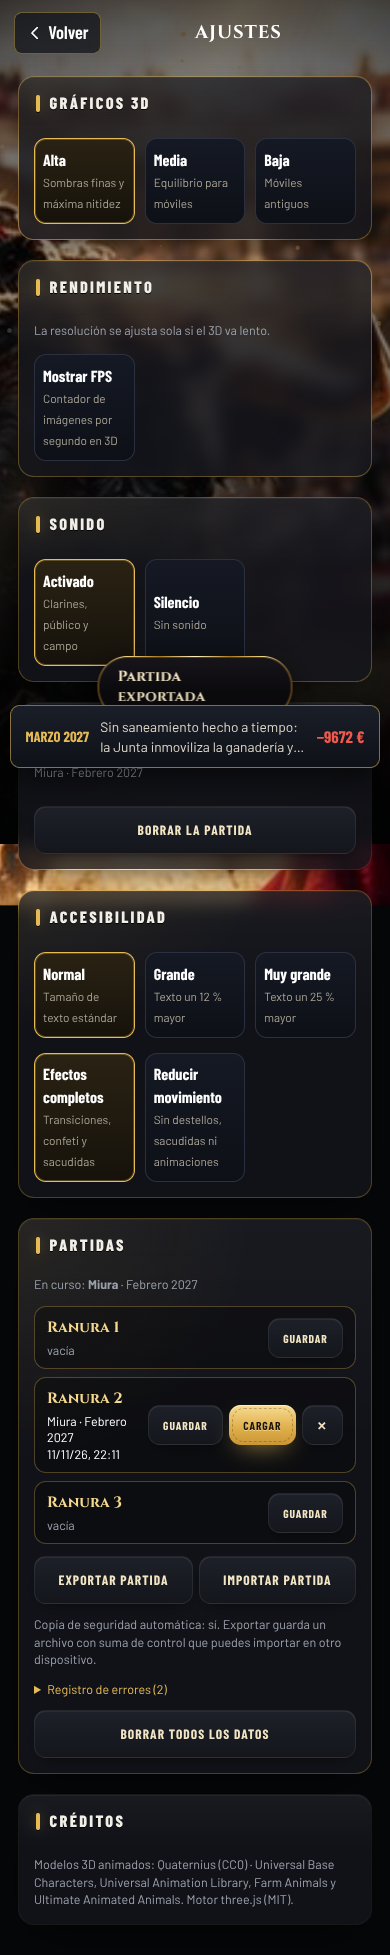
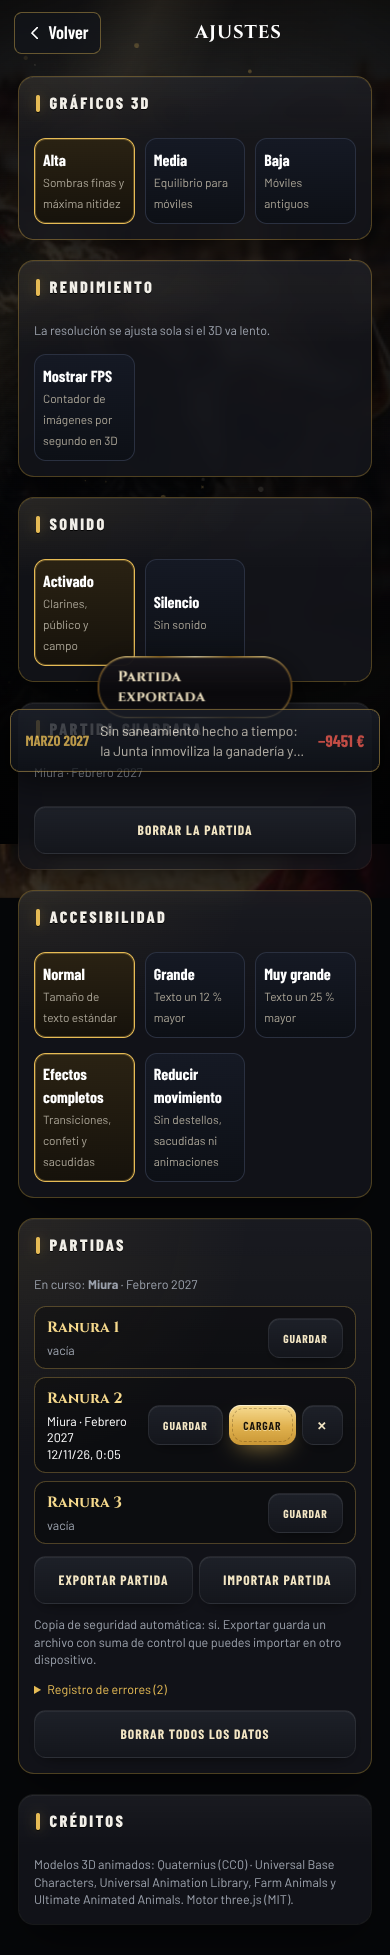
Cogidas animadas en la corrida en directo y test (#42)
Claude-Session: https://claude.ai/code/session_01UEz6UKm7eRVhhfCF1Qj26a

diff --git a/ruedo.html b/ruedo.html
@@ -984,7 +984,7 @@ function rigTick(b,dt){const A=RIG.A,Bn=RIG.bones,sp=bullSpeed;
  RIG.mixer.update(dt);
  if(!b.dead){
   // cara y cuello: humillar, derrote y seguir la tela
-  let pitch=b.pitch;if(D.phase==='pass'&&D.track){const p=clamp((D.s-D.s0)/(D.track.len-D.s0),0,1);pitch-=gauss(p,.82,.09)*(.08+.22*(CUR.b.derrote||0));}
+  let pitch=b.pitch;if(D.phase==='cogida')pitch=-.75*Math.sin(Math.PI*clamp(CG.t/.9,0,1))+.2;if(D.phase==='pass'&&D.track){const p=clamp((D.s-D.s0)/(D.track.len-D.s0),0,1);pitch-=gauss(p,.82,.09)*(.08+.22*(CUR.b.derrote||0));}
   if(D.phase==='suprema'&&/cuadrar|espera/.test(SP.st))pitch=Math.max(pitch,.25);
   const yawT=clamp(b.yawH,-.38,.38);b.sP=b.sP==null?pitch:damp(b.sP,pitch,3.2,dt);b.sY=b.sY==null?yawT:damp(b.sY,yawT,2.6,dt);pitch=b.sP;const yaw=b.sY;
   rotB(b,Bn.Neck1,AXX,pitch*.32);rotB(b,Bn.Neck2,AXX,pitch*.28);rotB(b,Bn.Neck3,AXX,pitch*.2);rotB(b,Bn.Head,AXX,pitch*.2);
@@ -1005,11 +1005,37 @@ updateBull=function(dt){_updateBullR(dt);if(bull&&bull.rig)rigTick(bull,dt);};
 /* física del ruedo: nadie atraviesa la barrera y el toro no se monta sobre el torero fuera del embroque */
 function limitesRuedo(){const rb=Math.hypot(B.x,B.z),mb=R-1.3;if(rb>mb){B.x*=mb/rb;B.z*=mb/rb;if(D.phase!=='pass')bullSpeed*=.6;}
  const rt=Math.hypot(T.x,T.z),mt=R-1;if(rt>mt){T.x*=mt/rt;T.z*=mt/rt;}
- if(D.phase!=='pass'&&D.phase!=='suprema'){const dx=B.x-T.x,dz=B.z-T.z,d=Math.hypot(dx,dz),m=1.6;if(d<m&&d>1e-4){B.x=T.x+dx/d*m;B.z=T.z+dz/d*m;}}}
+ if(D.phase!=='pass'&&D.phase!=='suprema'&&D.phase!=='cogida'){const dx=B.x-T.x,dz=B.z-T.z,d=Math.hypot(dx,dz),m=1.6;if(d<m&&d>1e-4){B.x=T.x+dx/d*m;B.z=T.z+dz/d*m;}}}
 /* rajarse: el toro sin casta se va a tablas al acabar la serie antes de volver a la muleta */
 const _updDirR=updateDirector;
 updateDirector=function(dt){_updDirR(dt);limitesRuedo();if(!bull||!CUR.b.raja||D.phase!=='turn'||D.after!=='serie'||D.t>2.6||D.si<1)return;
  const out=Math.atan2(B.x,B.z),d=angDiff(Byaw,out);Byaw+=clamp(d,-1.6*dt,1.6*dt);bullSpeed=damp(bullSpeed,1.5,3,dt);if(Math.hypot(B.x,B.z)<R-3){B.x+=Math.sin(Byaw)*bullSpeed*dt;B.z+=Math.cos(Byaw)*bullSpeed*dt;}};
+
+
+/* ---------- cogidas: el toro prende al torero, lo voltea y lo deja en el albero ----------
+   Ocurren solo cuando el juego ha decidido cogida para ese toro. Leve: se levanta y sigue la faena.
+   Grave (con sustituto): se lo llevan a la enfermería y el resultado dice quién mata al toro. */
+const CG={t:0,on:false,dir:new V3(),h:0,rx:0,rz:0,land:new V3()};
+function cogidaInicia(){D.phase='cogida';D.t=0;CG.on=true;CG.t=0;CG.h=0;CG.rx=0;CG.rz=0;CG.dir.set(Math.sin(Byaw),0,Math.cos(Byaw));CG.from=T.clone();CG.land=T.clone().addScaledVector(CG.dir,1.7);
+ CUR.cog.done=true;capote.mesh.visible=muleta.mesh.visible=stick.visible=sword.visible=false;D.embroque=false;D.spinA=0;
+ const o=document.getElementById('ole');o.textContent='¡Cogida!';o.style.color='#e0454c';o.classList.add('on');setTimeout(()=>{o.classList.remove('on');o.style.color='';},1800);
+ try{navigator.vibrate&&matchMedia('(pointer:coarse)').matches&&navigator.vibrate([70,40,140]);}catch(e){}emitDust(T,18,1.2);if(ui.cam==='cine')cut(pick(['raso','torero','callejon']));}
+function cogidaTick(dt){CG.t+=dt;const u=CG.t;
+ // el toro sigue su viaje, derrota y se va frenando
+ if(u<2.4)bullSpeed=damp(bullSpeed,u<1.4?3.2:1.2,2,dt);B.x+=Math.sin(Byaw)*bullSpeed*dt;B.z+=Math.cos(Byaw)*bullSpeed*dt;if(u<2.4)Byaw+=(u>1.2?.5:0)*dt;else{const away=Math.atan2(B.x-T.x,B.z-T.z);let dy=away-Byaw;dy=Math.atan2(Math.sin(dy),Math.cos(dy));Byaw+=dy*Math.min(1,2.5*dt);bullSpeed=damp(bullSpeed,Math.hypot(B.x-T.x,B.z-T.z)<6?2.4:0,2,dt);}
+ // el torero: prendido, volteado en el aire y al suelo
+ if(u<.32){const k=u/.32;T.lerpVectors(CG.from,CG.from.clone().addScaledVector(CG.dir,.45),k);CG.h=.55*k;CG.rx=-.6*k;}
+ else if(u<1.25){const k=(u-.32)/.93;const a=CG.from.clone().addScaledVector(CG.dir,.45);T.lerpVectors(a,CG.land,k);CG.h=.55*(1-k)+2.1*Math.sin(Math.PI*k);CG.rx=-.6-(Math.PI*2-.6+Math.PI/2)*smooth(0,1,k);CG.rz=.5*Math.sin(Math.PI*k);if(k>.97&&!CG.polvo){CG.polvo=1;emitDust(T,24,1.4);}}
+ else{CG.h=.12;CG.rx=-Math.PI/2;CG.rz=0;}
+ torero.walkV=0;const grave=CUR.cog&&CUR.cog.grave;
+ if(!grave&&u>3.2){const k=smooth(3.2,4.6,u);CG.rx=-Math.PI/2*(1-k);CG.h=.12*(1-k);
+  if(u>4.6){CG.on=false;CG.polvo=0;D.phase='turn';D.t=0;D.after='serie';D.si++;D.passN=99;setTool(D.tool,D.hand);}}
+ if(grave&&u>3.6&&!CG.fin){CG.fin=1;const o=document.getElementById('ole');o.textContent='A la enfermería';o.style.color='#e0454c';o.classList.add('on');setTimeout(()=>{o.classList.remove('on');o.style.color='';},2000);setTimeout(()=>{CG.on=false;CG.fin=0;CG.polvo=0;D.phase='fin';finFaena();},2200);}}
+const _updDirC=updateDirector;
+updateDirector=function(dt){if(D.phase==='cogida'){D.t+=dt;cogidaTick(dt);limitesRuedo();return;}_updDirC(dt);
+ if(D.phase==='pass'&&CUR.cog&&!CUR.cog.done&&D.si>=CUR.cog.si&&D.passN>=CUR.cog.pn&&D.track){const p=clamp((D.s-D.s0)/(D.track.len-D.s0),0,1);if(p>.4&&p<.55)cogidaInicia();}};
+const _updTorC=updateTorero;
+updateTorero=function(dt){_updTorC(dt);if(D.phase==='cogida'||CG.on){const r=torero.root;r.position.y+=CG.h;r.rotation.x=CG.rx;r.rotation.z=CG.rz;}else{torero.root.rotation.x=0;torero.root.rotation.z=0;}};
 
 /* ---------- puente con Hierro y Divisa ----------
    El juego envía cada toro de la corrida ya lidiado en su simulación (bravura, nobleza, casta, fuerza, encaste,
@@ -1034,7 +1060,7 @@ function aplicaJuego(r){const d=JUEGO.t,cl=(x,a,b)=>Math.max(a,Math.min(b,x));co
  const P=[];const nc=d.res==='devuelto'?1:B>72?2:1;for(let i=0;i<nc;i++)P.push([i===0?pk(CAP):pk(CAP),cl(Math.round(2+(B-60)/10+r()),2,5),B>62?REMC:null]);
  let nm=d.res==='devuelto'?0:d.rajado||d.fell?1:N>80?4:N>68?3:2;if(d.pases)nm=Math.min(nm,Math.max(1,Math.ceil(d.pases/2)));
  let last=est==='artista'||r()<.35?'natural':'derechazo';for(let i=0;i<nm;i++){let n=i===0?last:(last==='derechazo'?'natural':'derechazo');if(i===nm-1&&nm>2&&(est==='tremendista'||est==='valiente')&&r()<.5)n='manoletina';last=n;P.push([n,cl(Math.round(2+(N-55)/9+r()*1.4),2,6),N>58?pk(REMM):null]);}
- CUR.b.escarba=B<62||C<55||r()<.12;CUR.b.derrote=cl((C-55)/40,0,1);CUR.b.raja=!!d.rajado;CUR.prog=P;JUEGO.oleK=d.res==='pitos'?.35:d.res==='silencio'?.6:d.res==='ovacion'?.85:1;
+ CUR.cog=d.cogida&&d.res!=='devuelto'?{si:Math.max(0,Math.min(P.length-1,1+Math.floor(r()*Math.max(1,P.length-1)))),pn:1+Math.floor(r()*2),grave:!!d.sust,parte:d.cogida.parte||'',done:false}:null;CUR.b.escarba=B<62||C<55||r()<.12;CUR.b.derrote=cl((C-55)/40,0,1);CUR.b.raja=!!d.rajado;CUR.prog=P;JUEGO.oleK=d.res==='pitos'?.35:d.res==='silencio'?.6:d.res==='ovacion'?.85:1;
  variaPlaza(d);hudCartel();}
 function hudCartel(){const d=JUEGO.t;if(!d)return;const $=id=>document.getElementById(id);
  $('cEy').textContent=`${d.plaza||''}${d.feria?' · '+d.feria:''} · ${d.i}º de la tarde`;
@@ -1093,7 +1119,7 @@ function frame(now){requestAnimationFrame(frame);try{if(last)autoCalidad(Math.mi
  renderer.render(scene,camera);
 
  if(false){const d=gimg.data;for(let i=0;i<d.length;i+=4){const v=Math.random()*255;d[i]=d[i+1]=d[i+2]=v;d[i+3]=255;}gctx.putImageData(gimg,0,0);}}
-window.__ruedo={D,ui,setCam,fin:()=>finFaena(),sup:()=>suprema(),SP,get t(){return simTime;},get bull(){return bull;},pan:()=>{PAN.t=30;},get info(){const i=renderer.info.render;return {tri:i.triangles,calls:i.calls,crowd:crowd.bodies.count,pr:renderer.getPixelRatio(),sh:sun.shadow.mapSize.x};}};
+window.__ruedo={D,ui,setCam,fin:()=>finFaena(),cog:(g)=>{CUR.cog={si:D.si,pn:0,grave:!!g,done:false};},CG,get dist(){return Math.hypot(B.x-T.x,B.z-T.z);},sup:()=>suprema(),SP,get t(){return simTime;},get bull(){return bull;},pan:()=>{PAN.t=30;},get info(){const i=renderer.info.render;return {tri:i.triangles,calls:i.calls,crowd:crowd.bodies.count,pr:renderer.getPixelRatio(),sh:sun.shadow.mapSize.x};}};
 })();
 </script>
 

diff --git a/sw.js b/sw.js
@@ -1,5 +1,5 @@
 // Caché para jugar sin conexión una vez cargado
-const V='hierro-divisa-v51';
+const V='hierro-divisa-v52';
 const ARCHIVOS=['./', 'index.html', 'ruedo.html', 'js/ruedo.js', 'js/movil.js', 'js/libs/OrbitControls.js', 'js/libs/Sky.js', 'modelos/toro-ruedo.glb', 'css/estilo.css', 'css/moderno.css', 'css/fuentes.css', 'fonts/barlow-condensed-latin-500-normal.woff2', 'fonts/barlow-condensed-latin-600-italic.woff2', 'fonts/barlow-condensed-latin-600-normal.woff2', 'fonts/barlow-condensed-latin-700-italic.woff2', 'fonts/barlow-condensed-latin-700-normal.woff2', 'fonts/barlow-condensed-latin-800-italic.woff2', 'fonts/barlow-condensed-latin-800-normal.woff2', 'fonts/barlow-latin-400-normal.woff2', 'fonts/barlow-latin-500-normal.woff2', 'fonts/barlow-latin-600-normal.woff2', 'fonts/barlow-latin-700-normal.woff2', 'fonts/cinzel-latin-600-normal.woff2', 'fonts/cinzel-latin-700-normal.woff2', 'js/juego.js', 'js/mundo3d.js', 'js/carrera.js', 'js/musica.js', 'js/sonido.js', 'js/corro.js', 'js/calle.js', 'js/calle2.js', 'js/calle3.js', 'js/localidades.js', 'js/gfx.js', 'js/extras.js', 'js/divisas.js', 'js/casa.js', 'js/finca2.js', 'js/lidia.js', 'js/fx.js', 'js/menu.js', 'js/modelos.js', 'js/toros3d.js', 'js/toro3.js', 'js/torero3d.js', 'js/torero.js', 'js/estabilidad.js', 'js/panel.js', 'js/clima.js', 'js/finca3.js', 'js/finca4.js', 'js/jinetes.js', 'js/genetica.js', 'js/economia.js', 'js/rendimiento.js', 'js/uipro.js', 'js/pulido.js', 'js/navbar.js', 'js/calendario.js', 'js/texturas.js', 'modelos/natura.gltf.json', 'img/nav-toro.png', 'img/nav/c_con.png', 'img/nav/c_ini.png', 'img/nav/c_inv.png', 'img/nav/c_mer.png', 'img/nav/c_res.png', 'img/nav/camada.png', 'img/nav/drapeL.png', 'img/nav/drapeR.png', 'img/nav/finca.png', 'img/nav/inicio.png', 'img/nav/mercado.png', 'img/nav/ofertas.png', 'img/nav/palmares.png', 'img/nav/tareas.png', 'img/tex/albero.jpg', 'img/tex/asfalto-n.jpg', 'img/tex/asfalto.jpg', 'img/tex/detalle.jpg', 'img/tex/tierra-n.jpg', 'js/libs/three.min.js', 'js/libs/GLTFLoader.js', 'js/libs/SkeletonUtils.js', 'js/libs/BufferGeometryUtils.js', 'modelos/persona.glb', 'modelos/caballo.glb', 'modelos/persona2.gltf.json', 'modelos/toro.glb', 'modelos/toro-tripo.glb', 'modelos/toro-tripo-lo.glb', 'modelos/vaca.glb', 'manifest.webmanifest', 'img/cabeza.jpg', 'img/calle.jpg', 'img/calle-nit.jpg', 'img/cuerno.jpg', 'img/dehesa.jpg', 'img/hero.jpg', 'img/icono-192.png', 'img/icono-512.png', 'img/palco.jpg', 'img/plaza-1.jpg', 'img/plaza-2.jpg', 'img/toro-cardeno-0.jpg', 'img/toro-cardeno-1.jpg', 'img/toro-cardeno-2.jpg', 'img/toro-cardeno-3.jpg', 'img/toro-cardeno-4.jpg', 'img/toro-cardeno-5.jpg', 'img/toro-cardeno-6.jpg', 'img/toro-cardeno-7.jpg', 'img/toro-castano-0.jpg', 'img/toro-castano-1.jpg', 'img/toro-castano-2.jpg', 'img/toro-castano-3.jpg', 'img/toro-castano-4.jpg', 'img/toro-castano-5.jpg', 'img/toro-castano-6.jpg', 'img/toro-castano-7.jpg', 'img/toro-colorado-0.jpg', 'img/toro-colorado-1.jpg', 'img/toro-colorado-2.jpg', 'img/toro-colorado-3.jpg', 'img/toro-colorado-4.jpg', 'img/toro-colorado-5.jpg', 'img/toro-colorado-6.jpg', 'img/toro-colorado-7.jpg', 'img/toro-jabonero-0.jpg', 'img/toro-jabonero-1.jpg', 'img/toro-jabonero-2.jpg', 'img/toro-jabonero-3.jpg', 'img/toro-jabonero-4.jpg', 'img/toro-jabonero-5.jpg', 'img/toro-jabonero-6.jpg', 'img/toro-jabonero-7.jpg', 'img/toro-negro-0.jpg', 'img/toro-negro-1.jpg', 'img/toro-negro-2.jpg', 'img/toro-negro-3.jpg', 'img/toro-negro-4.jpg', 'img/toro-negro-5.jpg', 'img/toro-negro-6.jpg', 'img/toro-negro-7.jpg', 'img/toro-sombra.jpg'];
 self.addEventListener('install',e=>{e.waitUntil(caches.open(V).then(c=>c.addAll(ARCHIVOS)).then(()=>self.skipWaiting()))});
 self.addEventListener('activate',e=>{e.waitUntil(caches.keys().then(k=>Promise.all(k.filter(x=>x!==V).map(x=>caches.delete(x)))).then(()=>self.clients.claim()))});

diff --git a/tests/e2e/cogida.js b/tests/e2e/cogida.js
@@ -1,0 +1,15 @@
+// QA: cogida animada en la plaza realista: prende, voltea, cae y (leve) se levanta y sigue la faena
+const {chromium}=require('playwright');(async()=>{const b=await chromium.launch({args:['--use-gl=angle','--use-angle=swiftshader','--enable-unsafe-swiftshader','--ignore-gpu-blocklist']});
+const p=await b.newPage({viewport:{width:844,height:390}});const errs=[];p.on('pageerror',e=>errs.push('P '+e.message));p.on('console',m=>{if(m.type()==='error')errs.push('C '+m.text().slice(0,200))});
+await p.goto('http://localhost:8765/index.html');await p.waitForTimeout(1500);
+await p.evaluate(()=>{localStorage.clear();startReal(1);const o={id:9502,plaza:'Las Ventas (Madrid)',feria:'San Isidro',cat:1,tipo:'corrida',abs:absNow(),n:1,precio:12000,st:'aceptada'};const L=campo().filter(a=>a.sex==='M'&&ageY(a)>=3);o.toros=L.slice(0,1).map(a=>a.id);S.offers.push(o);const r=celebrar(o);r.toros[0].res='oreja';r.toros[0].trof=1;r.toros[0].cogida={parte:'leve'};enterPlaza(r.id)});
+const fr=()=>p.frames().find(f=>/ruedo\.html/.test(f.url()));
+for(let i=0;i<120&&!(fr()&&await fr().evaluate(()=>window.__ruedo&&document.getElementById('loading').classList.contains('off')).catch(()=>false));i++)await p.waitForTimeout(1000);
+
+await fr().evaluate(()=>{__ruedo.ui.speed=4;__ruedo.cog()});
+let seen={cogida:0,h:0,back:0};for(let i=0;i<240;i++){const s=await fr().evaluate(()=>({ph:__ruedo.D.phase,h:__ruedo.CG.h,t:__ruedo.CG.t,on:__ruedo.CG.on}));
+ if(s.ph==='cogida'){if(!seen.cogida)await fr().evaluate(()=>{__ruedo.ui.speed=1});seen.cogida=1;seen.h=Math.max(seen.h,s.h);if(s.h>1.2&&!seen.shot){seen.shot=1;await p.screenshot({path:'/tmp/cog-A.png',timeout:120000})}if(s.t>2.2&&!seen.shot2){seen.shot2=1;seen.dEnd=await fr().evaluate(()=>__ruedo.dist);await p.screenshot({path:'/tmp/cog-B.png',timeout:120000})}}
+ else if(seen.cogida){seen.back=s.ph;seen.dUp=await fr().evaluate(()=>__ruedo.dist);break}await p.waitForTimeout(300)}
+console.log('seen',JSON.stringify(seen));await p.waitForTimeout(3000);await p.screenshot({path:'/tmp/cog-C.png',timeout:120000});
+console.log('fase',await fr().evaluate(()=>__ruedo.D.phase+' dist '+__ruedo.dist.toFixed(1)));
+console.log(errs.length?"ERRORES "+JSON.stringify(errs):"COGIDA OK");await b.close()})();

diff --git a/CHANGELOG.md b/CHANGELOG.md
@@ -1,5 +1,11 @@
 # Cambios
 
+## Cogidas en la corrida en directo
+- Cuando el juego decide que hay cogida, en la plaza realista el toro prende al torero en mitad de un pase, lo voltea en el aire y lo deja en el albero, con polvo, aviso "¡Cogida!", vibración en el móvil y cambio de cámara.
+- Cogida leve: el toro se aleja, el matador se levanta y sigue la faena.
+- Cogida grave (con sustituto): se lo llevan a la enfermería y el resultado dice quién mata al toro.
+- Auditoría: sin errores de JavaScript ni archivos rotos, sin fugas de memoria al entrar y salir de la finca y un año de simulación limpio.
+
 ## Toro mejorado
 - Superficie suavizada: se acabaron las facetas del modelo.
 - Hechuras de toro de lidia esculpidas: morrillo alto, pecho hondo con papada, cuerpo más redondo y cara más corta.
